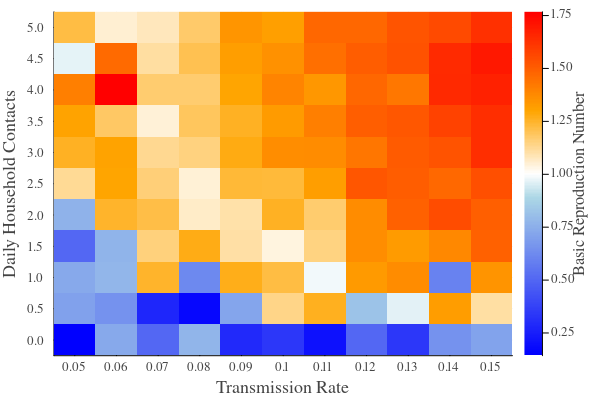
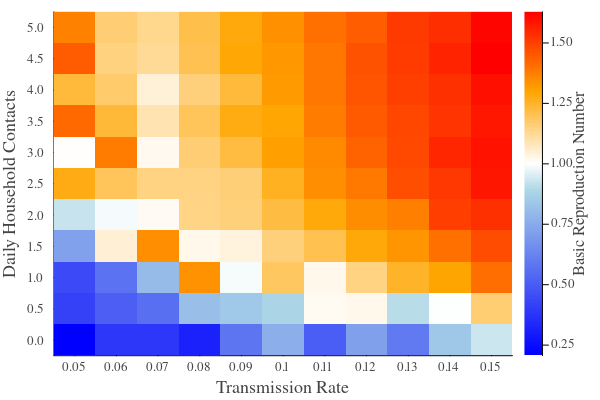
update heatmap section in tutorial

diff --git a/docs/src/tut_batches.md b/docs/src/tut_batches.md
@@ -256,16 +256,11 @@ outvals = []
 
 # vary transmission rate
 for tr in 0.05:0.01:0.15
-    # vary household contacts
     for con in 0:0.5:5
-        sim = Simulation(transmission_rate = tr, household_contacts = con)
-        run!(sim)
-        rd = ResultData(sim, style = "LightRD")
-
-        # extract data for heatmap
+        bd = BatchData(Batch(n_runs = 3, transmission_rate = tr, household_contacts = con))
         push!(xvals, tr)
         push!(yvals, con)
-        push!(outvals, r0(rd))
+        push!(outvals, r0(bd)["mean"])
     end
 end
 
@@ -282,11 +277,7 @@ gemsheatmap(xvals, yvals, outvals,
 <p align="center">
     <img src="../assets/tutorials/tut_batches_sweep_heatmap.png" width="80%"/>
 </p>
-``` 
-
-
-!!! info "How can I run more than one repetition per combination?"
-    You can enclose the experiment in another loop, running each combination as many times as you want. The `gemsheatmap()` function can take multiple entries of the same (`xvals`, `yvals`) combinations. It automatically generates the mean value across observations. You can also change the aggregation function. Please lookup the `gemsheatmap()` documentation.
+```
 
 
 